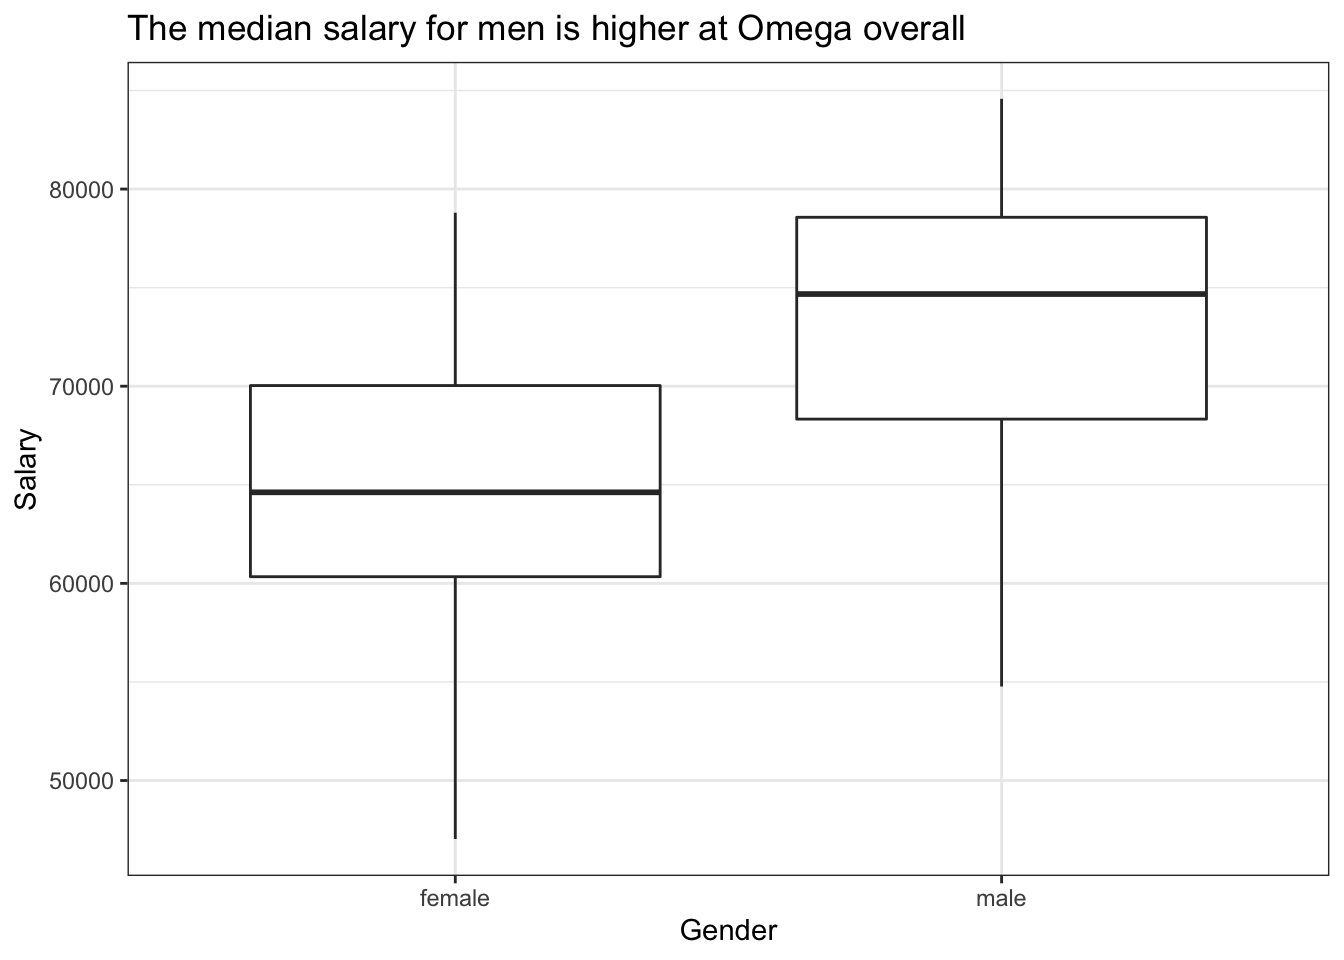
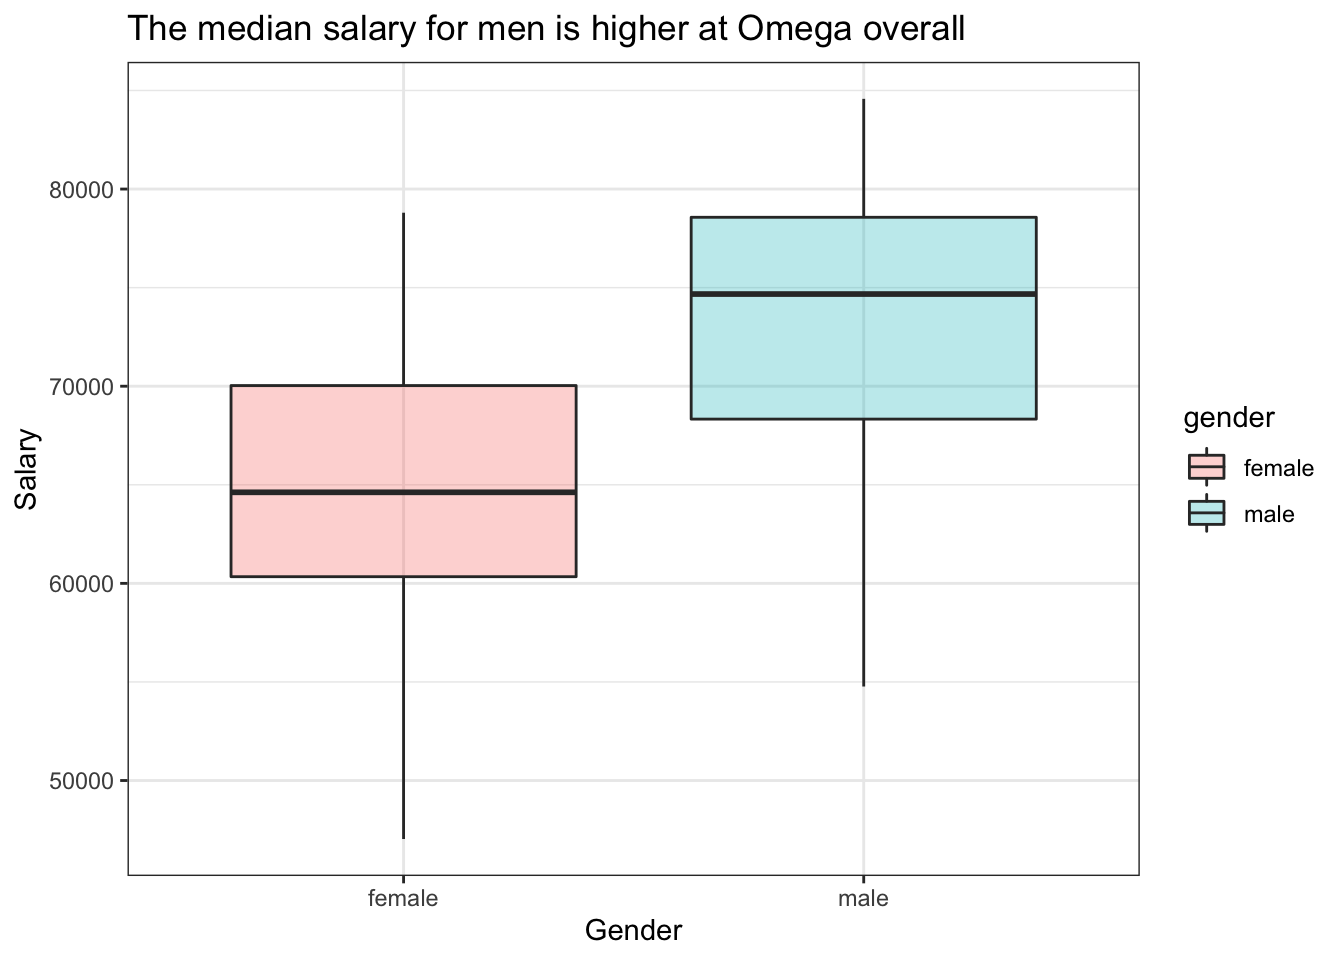
made changes to 2 blogs

diff --git a/content/blogs/blog6.html b/content/blogs/blog6.html
@@ -11,8 +11,8 @@ title: IBM HR Analytics
 
 
 <p>The <a href="https://www.kaggle.com/pavansubhasht/ibm-hr-analytics-attrition-dataset">IBM HR Analytics Employee Attrition &amp; Performance dataset</a> is a fictional data set created by IBM data scientists. Among other things, the data set includes employees’ income, their distance from work, their position in the company, their level of education, etc. A full description can be found on the website.</p>
-<div id="data-cleaning-and-reorganising" class="section level2">
-<h2>Data cleaning and reorganising</h2>
+<div id="loading-the-data-and-summary-statistics" class="section level2">
+<h2>Loading the data and summary statistics</h2>
 <p>At first, the data set is loaded and summary statistics are provided.</p>
 <pre class="r"><code>hr_dataset &lt;- read_csv(here::here(&quot;data&quot;, &quot;datasets_1067_1925_WA_Fn-UseC_-HR-Employee-Attrition.csv&quot;)) # loading data set</code></pre>
 <pre><code>## Parsed with column specification:
@@ -537,6 +537,9 @@ title: IBM HR Analytics
 </tbody>
 </table>
 <p>Data set reveals there are 26 Quantitative and 9 qualitative parameters about employees working at IBM. However, this is not a true picture as there are many rating-based and level-based variables Viz. Education level, Environment satisfaction etc. which have been coded as numeric values and hence a basic data cleaning is necessary. One important observation is that the data has no missing values.</p>
+</div>
+<div id="data-cleaning-and-reorganising" class="section level2">
+<h2>Data cleaning and reorganising</h2>
 <pre class="r"><code># Basic Data Cleaning and re-coding of levels
 
 hr_cleaned &lt;- hr_dataset %&gt;% 
@@ -913,16 +916,6 @@ Work&lt;-hr_cleaned%&gt;% # creating variable
   group_by(department)%&gt;% # grouping by department
   count(work_life_balance)%&gt;% # counting variable enclosed by grouped variable
   mutate(n_percent=n/sum(n)) # adding a proportion</code></pre>
-<pre class="r"><code>ggplot(Edu,aes(x=department,  # speciyfying axes
-               y=n_percent, 
-               fill=factor(education, levels=c( &quot;Doctor&quot;,&quot;Master&quot;, &quot;Bachelor&quot;, &quot;College&quot;, &quot;Below College&quot;))))+
- geom_col()+ # generating graph
-labs(title=&quot;Education Level by Department at IBM&quot;, # adding labels and colouring 
-       x=&quot;Department&quot;,
-       y=&quot;Percentage Education&quot;,
-       fill= &quot;Education Level&quot;)+
-    theme(axis.text.x = element_text(angle = 30, vjust = 0.5, hjust=0.5)) # adjusting x axis label</code></pre>
-<p><img src="/blogs/blog6_files/figure-html/unnamed-chunk-4-1.png" width="672" /></p>
 <pre class="r"><code>ggplot(Edu)+
   aes(x=education, y = n_percent, fill = education)+ # speciyfying axes
   geom_col()+  # generating graph
@@ -932,18 +925,8 @@ labs(title=&quot;Education Level by Department at IBM&quot;, # adding labels and
        y=&quot;Percentage Education&quot;,
        fill= &quot;Education Level&quot;)+
     theme(axis.text.x = element_text(angle = 30, vjust = 0.5, hjust=0.5)) # adjusting x axis label</code></pre>
-<p><img src="/blogs/blog6_files/figure-html/unnamed-chunk-4-2.png" width="672" /></p>
-<p>Though there’s an almost comparables mix of education levels of employees across depatment, most of the employees are Bachelor-level educated in all departments. More employees hold Masters in Sales than other departments.</p>
-<pre class="r"><code>ggplot(Enviro,aes(x=department, y=n_percent, # specifying axes and colouring
-                  fill=factor(environment_satisfaction, 
-                              levels=c(&quot;Very High&quot;, &quot;High&quot;, &quot;Medium&quot; , &quot;Low&quot;))))+
- geom_col()+ # generating graph
-labs(title=&quot;Environment Satisfaction by Department at IBM&quot;, # adding title and labels
-       x=&quot;Department&quot;,
-       y=&quot;Percentage Vote&quot;,
-       fill= &quot;Environment Satisfaction&quot;)+
-    theme(axis.text.x = element_text(angle = 30, vjust = 0.5, hjust=0.5)) # adjusting x axis</code></pre>
-<p><img src="/blogs/blog6_files/figure-html/unnamed-chunk-5-1.png" width="672" /></p>
+<p><img src="/blogs/blog6_files/figure-html/unnamed-chunk-4-1.png" width="672" /></p>
+<p>Though there’s an almost comparable mix of education levels of employees across department, most of the employees are Bachelor-level educated in all departments. More employees hold Masters in Sales than other departments. This data maybe slightly surprising at first, as R&amp;D is expected to have the highest proportion of highly skilled employees. However, it may be the case that a large number of employees in R&amp;D are involved in roles such as project management where the a high skill level is not required.</p>
 <pre class="r"><code>Enviro %&gt;% ggplot()+ # creating variable 
   aes(x=environment_satisfaction, # specifying axes and colouring
       y = n_percent, 
@@ -955,7 +938,7 @@ labs(title=&quot;Environment Satisfaction by Department at IBM&quot;, # adding t
        y=&quot;Percentage Vote&quot;,
        fill= &quot;Environment Satisfaction&quot;)+
     theme(axis.text.x = element_text(angle = 30, vjust = 0.5, hjust=0.5)) # adjusting x axis</code></pre>
-<p><img src="/blogs/blog6_files/figure-html/unnamed-chunk-5-2.png" width="672" /></p>
+<p><img src="/blogs/blog6_files/figure-html/unnamed-chunk-5-1.png" width="672" /></p>
 <p>Around 41% employees in HR seems to be satisfied with the environmental conditions, this seems to be because one of the key roles of the HR department is to keep a positive organisational environment. 31% of Research employees felt very highly satisfied by Environmental conditions, a reason for this could be - R&amp;D is a highly specialised department, therefore the people who join such roles are specifically trained for this and expect what is to come. However, sales guys seems to be divided into comparable groups of employees to have voted for all the categories in the range 20%-30%.</p>
 <p>Post this, it would be interesting to look at how departments perform.</p>
 <pre class="r"><code>ggplot(Perf,aes(x=department, y=n_percent, # specifying axes and colouring

diff --git a/public/blogs/blog6/index.html b/public/blogs/blog6/index.html
@@ -80,8 +80,8 @@
 
 
 <p>The <a href="https://www.kaggle.com/pavansubhasht/ibm-hr-analytics-attrition-dataset">IBM HR Analytics Employee Attrition &amp; Performance dataset</a> is a fictional data set created by IBM data scientists. Among other things, the data set includes employees’ income, their distance from work, their position in the company, their level of education, etc. A full description can be found on the website.</p>
-<div id="data-cleaning-and-reorganising" class="section level2">
-<h2>Data cleaning and reorganising</h2>
+<div id="loading-the-data-and-summary-statistics" class="section level2">
+<h2>Loading the data and summary statistics</h2>
 <p>At first, the data set is loaded and summary statistics are provided.</p>
 <pre class="r"><code>hr_dataset &lt;- read_csv(here::here(&quot;data&quot;, &quot;datasets_1067_1925_WA_Fn-UseC_-HR-Employee-Attrition.csv&quot;)) # loading data set</code></pre>
 <pre><code>## Parsed with column specification:
@@ -606,6 +606,9 @@
 </tbody>
 </table>
 <p>Data set reveals there are 26 Quantitative and 9 qualitative parameters about employees working at IBM. However, this is not a true picture as there are many rating-based and level-based variables Viz. Education level, Environment satisfaction etc. which have been coded as numeric values and hence a basic data cleaning is necessary. One important observation is that the data has no missing values.</p>
+</div>
+<div id="data-cleaning-and-reorganising" class="section level2">
+<h2>Data cleaning and reorganising</h2>
 <pre class="r"><code># Basic Data Cleaning and re-coding of levels
 
 hr_cleaned &lt;- hr_dataset %&gt;% 
@@ -982,16 +985,6 @@ Work&lt;-hr_cleaned%&gt;% # creating variable
   group_by(department)%&gt;% # grouping by department
   count(work_life_balance)%&gt;% # counting variable enclosed by grouped variable
   mutate(n_percent=n/sum(n)) # adding a proportion</code></pre>
-<pre class="r"><code>ggplot(Edu,aes(x=department,  # speciyfying axes
-               y=n_percent, 
-               fill=factor(education, levels=c( &quot;Doctor&quot;,&quot;Master&quot;, &quot;Bachelor&quot;, &quot;College&quot;, &quot;Below College&quot;))))+
- geom_col()+ # generating graph
-labs(title=&quot;Education Level by Department at IBM&quot;, # adding labels and colouring 
-       x=&quot;Department&quot;,
-       y=&quot;Percentage Education&quot;,
-       fill= &quot;Education Level&quot;)+
-    theme(axis.text.x = element_text(angle = 30, vjust = 0.5, hjust=0.5)) # adjusting x axis label</code></pre>
-<p><img src="/blogs/blog6_files/figure-html/unnamed-chunk-4-1.png" width="672" /></p>
 <pre class="r"><code>ggplot(Edu)+
   aes(x=education, y = n_percent, fill = education)+ # speciyfying axes
   geom_col()+  # generating graph
@@ -1001,18 +994,8 @@ labs(title=&quot;Education Level by Department at IBM&quot;, # adding labels and
        y=&quot;Percentage Education&quot;,
        fill= &quot;Education Level&quot;)+
     theme(axis.text.x = element_text(angle = 30, vjust = 0.5, hjust=0.5)) # adjusting x axis label</code></pre>
-<p><img src="/blogs/blog6_files/figure-html/unnamed-chunk-4-2.png" width="672" /></p>
-<p>Though there’s an almost comparables mix of education levels of employees across depatment, most of the employees are Bachelor-level educated in all departments. More employees hold Masters in Sales than other departments.</p>
-<pre class="r"><code>ggplot(Enviro,aes(x=department, y=n_percent, # specifying axes and colouring
-                  fill=factor(environment_satisfaction, 
-                              levels=c(&quot;Very High&quot;, &quot;High&quot;, &quot;Medium&quot; , &quot;Low&quot;))))+
- geom_col()+ # generating graph
-labs(title=&quot;Environment Satisfaction by Department at IBM&quot;, # adding title and labels
-       x=&quot;Department&quot;,
-       y=&quot;Percentage Vote&quot;,
-       fill= &quot;Environment Satisfaction&quot;)+
-    theme(axis.text.x = element_text(angle = 30, vjust = 0.5, hjust=0.5)) # adjusting x axis</code></pre>
-<p><img src="/blogs/blog6_files/figure-html/unnamed-chunk-5-1.png" width="672" /></p>
+<p><img src="/blogs/blog6_files/figure-html/unnamed-chunk-4-1.png" width="672" /></p>
+<p>Though there’s an almost comparable mix of education levels of employees across department, most of the employees are Bachelor-level educated in all departments. More employees hold Masters in Sales than other departments. This data maybe slightly surprising at first, as R&amp;D is expected to have the highest proportion of highly skilled employees. However, it may be the case that a large number of employees in R&amp;D are involved in roles such as project management where the a high skill level is not required.</p>
 <pre class="r"><code>Enviro %&gt;% ggplot()+ # creating variable 
   aes(x=environment_satisfaction, # specifying axes and colouring
       y = n_percent, 
@@ -1024,7 +1007,7 @@ labs(title=&quot;Environment Satisfaction by Department at IBM&quot;, # adding t
        y=&quot;Percentage Vote&quot;,
        fill= &quot;Environment Satisfaction&quot;)+
     theme(axis.text.x = element_text(angle = 30, vjust = 0.5, hjust=0.5)) # adjusting x axis</code></pre>
-<p><img src="/blogs/blog6_files/figure-html/unnamed-chunk-5-2.png" width="672" /></p>
+<p><img src="/blogs/blog6_files/figure-html/unnamed-chunk-5-1.png" width="672" /></p>
 <p>Around 41% employees in HR seems to be satisfied with the environmental conditions, this seems to be because one of the key roles of the HR department is to keep a positive organisational environment. 31% of Research employees felt very highly satisfied by Environmental conditions, a reason for this could be - R&amp;D is a highly specialised department, therefore the people who join such roles are specifically trained for this and expect what is to come. However, sales guys seems to be divided into comparable groups of employees to have voted for all the categories in the range 20%-30%.</p>
 <p>Post this, it would be interesting to look at how departments perform.</p>
 <pre class="r"><code>ggplot(Perf,aes(x=department, y=n_percent, # specifying axes and colouring

diff --git a/content/blogs/blog8.html b/content/blogs/blog8.html
@@ -262,14 +262,15 @@ title: Pay Discrimination Analysis at Omega
 </tr>
 </tbody>
 </table>
+<p>There are no missing variables in the data frame</p>
 </div>
 <div id="relationship-salary---gender" class="section level2">
 <h2>Relationship Salary - Gender ?</h2>
 <p>Overall salaries by gender are analysed below in visual and tabular form.</p>
 <pre class="r"><code># Examining the overall salaries by gender via boxplot
 omega %&gt;% 
-  ggplot(aes(x=gender, y=salary)) + # specifying the axes
-        geom_boxplot() + # creating a boxplot
+  ggplot(aes(x=gender, y=salary, fill=gender)) + # specifying the axes and colouring
+        geom_boxplot(alpha=0.3) + # creating a boxplot and setting transparency 
         theme_bw() + # adding a black and white theme
         labs(title = &quot;The median salary for men is higher at Omega overall&quot;, x = &quot;Gender&quot;, y = &quot;Salary&quot;) # labelling title and axes</code></pre>
 <p><img src="/blogs/blog8_files/figure-html/confint_single_valiables-1.png" width="672" /></p>
@@ -360,8 +361,8 @@ p_value_by_gender&lt;-salary_by_gender %&gt;% # creating a new variable
 <p>At the board meeting, someone raised the issue that there was indeed a substantial difference between male and female salaries, but that this was attributable to other reasons such as differences in experience. A questionnaire send out to the 50 executives in the sample reveals that the average experience of the men is approximately 21 years, whereas the women only have about 7 years experience on average (see table below).</p>
 <pre class="r"><code># Summary Statistics of salary by gender
 omega %&gt;% 
-  ggplot(aes(x = gender, y = experience)) + # specifying axes
-  geom_boxplot() # creating a boxplot</code></pre>
+  ggplot(aes(x = gender, y = experience, fill=gender)) + # specifying axes
+  geom_boxplot(alpha=0.3) # creating a boxplot</code></pre>
 <p><img src="/blogs/blog8_files/figure-html/experience_stats-1.png" width="672" /></p>
 <pre class="r"><code>stats_exp_gender &lt;- favstats (experience ~ gender, data=omega) # using favstats by specifying the variables of interest and data frame</code></pre>
 <p>It seems from the graph and the table that Omega has relatively less experienced women employees.</p>
@@ -447,9 +448,8 @@ p_value_exp_gender &lt;- experience_in_null %&gt;% # creating a new variable
 <p>As can be seen, there is a significant positive relationship between years of experience and salary. It can also be seen what was confirmed in the previous section, that women have significantly less experience than men, with a cut off point displayed above at around 30 years. This gives an alternative reasoning besides discrimination regarding the pay gap, as more years of experience are a valuable asset that is accordingly financially rewarded with a greater salary.</p>
 <p>Another intersting perspective can be that more men are hired with higher years of experience than women. If a true comparison has to be made between the salaries of the two groups, both should have comparable distribution of years of experience which is not the case. Hence, no conclusion about the original question can be drawn from the above analysis</p>
 </div>
-<div id="check-correlations-between-the-data" class="section level2">
-<h2>Check correlations between the data</h2>
-<p>You can use <code>GGally:ggpairs()</code> to create a scatterplot and correlation matrix. Essentially, we change the order our variables will appear in and have the dependent variable (Y), salary, as last in our list. We then pipe the dataframe to <code>ggpairs()</code> with <code>aes</code> arguments to colour by <code>gender</code> and make ths plots somewhat transparent (<code>alpha  = 0.3</code>).</p>
+<div id="correlations-between-the-data" class="section level2">
+<h2>Correlations between the data</h2>
 <pre class="r"><code>omega %&gt;% 
   select(gender, experience, salary) %&gt;% #order variables they will appear in ggpairs()
   ggpairs(aes(colour=gender, alpha = 0.3))+

diff --git a/public/blogs/blog8/index.html b/public/blogs/blog8/index.html
@@ -331,14 +331,15 @@
 </tr>
 </tbody>
 </table>
+<p>There are no missing variables in the data frame</p>
 </div>
 <div id="relationship-salary---gender" class="section level2">
 <h2>Relationship Salary - Gender ?</h2>
 <p>Overall salaries by gender are analysed below in visual and tabular form.</p>
 <pre class="r"><code># Examining the overall salaries by gender via boxplot
 omega %&gt;% 
-  ggplot(aes(x=gender, y=salary)) + # specifying the axes
-        geom_boxplot() + # creating a boxplot
+  ggplot(aes(x=gender, y=salary, fill=gender)) + # specifying the axes and colouring
+        geom_boxplot(alpha=0.3) + # creating a boxplot and setting transparency 
         theme_bw() + # adding a black and white theme
         labs(title = &quot;The median salary for men is higher at Omega overall&quot;, x = &quot;Gender&quot;, y = &quot;Salary&quot;) # labelling title and axes</code></pre>
 <p><img src="/blogs/blog8_files/figure-html/confint_single_valiables-1.png" width="672" /></p>
@@ -429,8 +430,8 @@ p_value_by_gender&lt;-salary_by_gender %&gt;% # creating a new variable
 <p>At the board meeting, someone raised the issue that there was indeed a substantial difference between male and female salaries, but that this was attributable to other reasons such as differences in experience. A questionnaire send out to the 50 executives in the sample reveals that the average experience of the men is approximately 21 years, whereas the women only have about 7 years experience on average (see table below).</p>
 <pre class="r"><code># Summary Statistics of salary by gender
 omega %&gt;% 
-  ggplot(aes(x = gender, y = experience)) + # specifying axes
-  geom_boxplot() # creating a boxplot</code></pre>
+  ggplot(aes(x = gender, y = experience, fill=gender)) + # specifying axes
+  geom_boxplot(alpha=0.3) # creating a boxplot</code></pre>
 <p><img src="/blogs/blog8_files/figure-html/experience_stats-1.png" width="672" /></p>
 <pre class="r"><code>stats_exp_gender &lt;- favstats (experience ~ gender, data=omega) # using favstats by specifying the variables of interest and data frame</code></pre>
 <p>It seems from the graph and the table that Omega has relatively less experienced women employees.</p>
@@ -516,9 +517,8 @@ p_value_exp_gender &lt;- experience_in_null %&gt;% # creating a new variable
 <p>As can be seen, there is a significant positive relationship between years of experience and salary. It can also be seen what was confirmed in the previous section, that women have significantly less experience than men, with a cut off point displayed above at around 30 years. This gives an alternative reasoning besides discrimination regarding the pay gap, as more years of experience are a valuable asset that is accordingly financially rewarded with a greater salary.</p>
 <p>Another intersting perspective can be that more men are hired with higher years of experience than women. If a true comparison has to be made between the salaries of the two groups, both should have comparable distribution of years of experience which is not the case. Hence, no conclusion about the original question can be drawn from the above analysis</p>
 </div>
-<div id="check-correlations-between-the-data" class="section level2">
-<h2>Check correlations between the data</h2>
-<p>You can use <code>GGally:ggpairs()</code> to create a scatterplot and correlation matrix. Essentially, we change the order our variables will appear in and have the dependent variable (Y), salary, as last in our list. We then pipe the dataframe to <code>ggpairs()</code> with <code>aes</code> arguments to colour by <code>gender</code> and make ths plots somewhat transparent (<code>alpha  = 0.3</code>).</p>
+<div id="correlations-between-the-data" class="section level2">
+<h2>Correlations between the data</h2>
 <pre class="r"><code>omega %&gt;% 
   select(gender, experience, salary) %&gt;% #order variables they will appear in ggpairs()
   ggpairs(aes(colour=gender, alpha = 0.3))+
